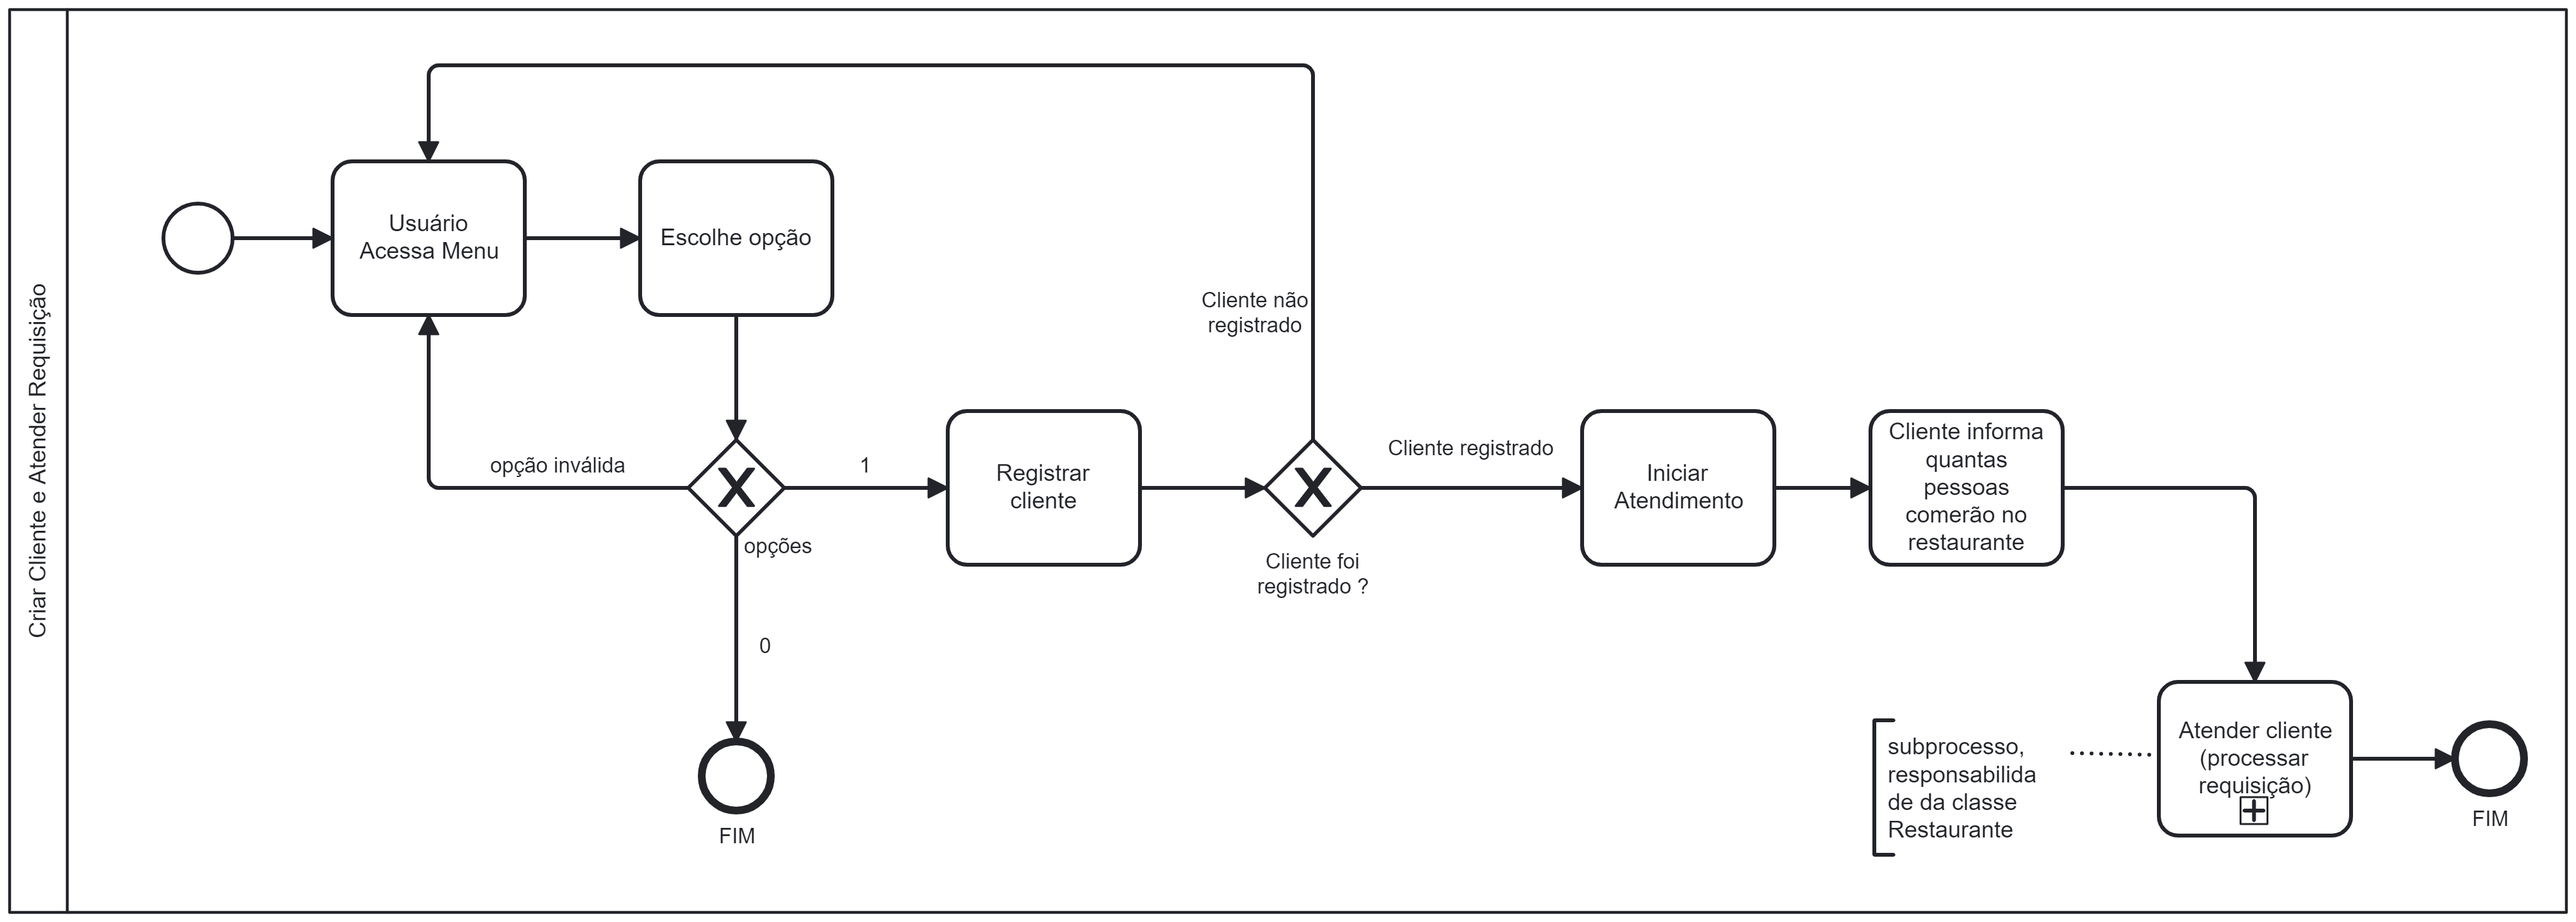
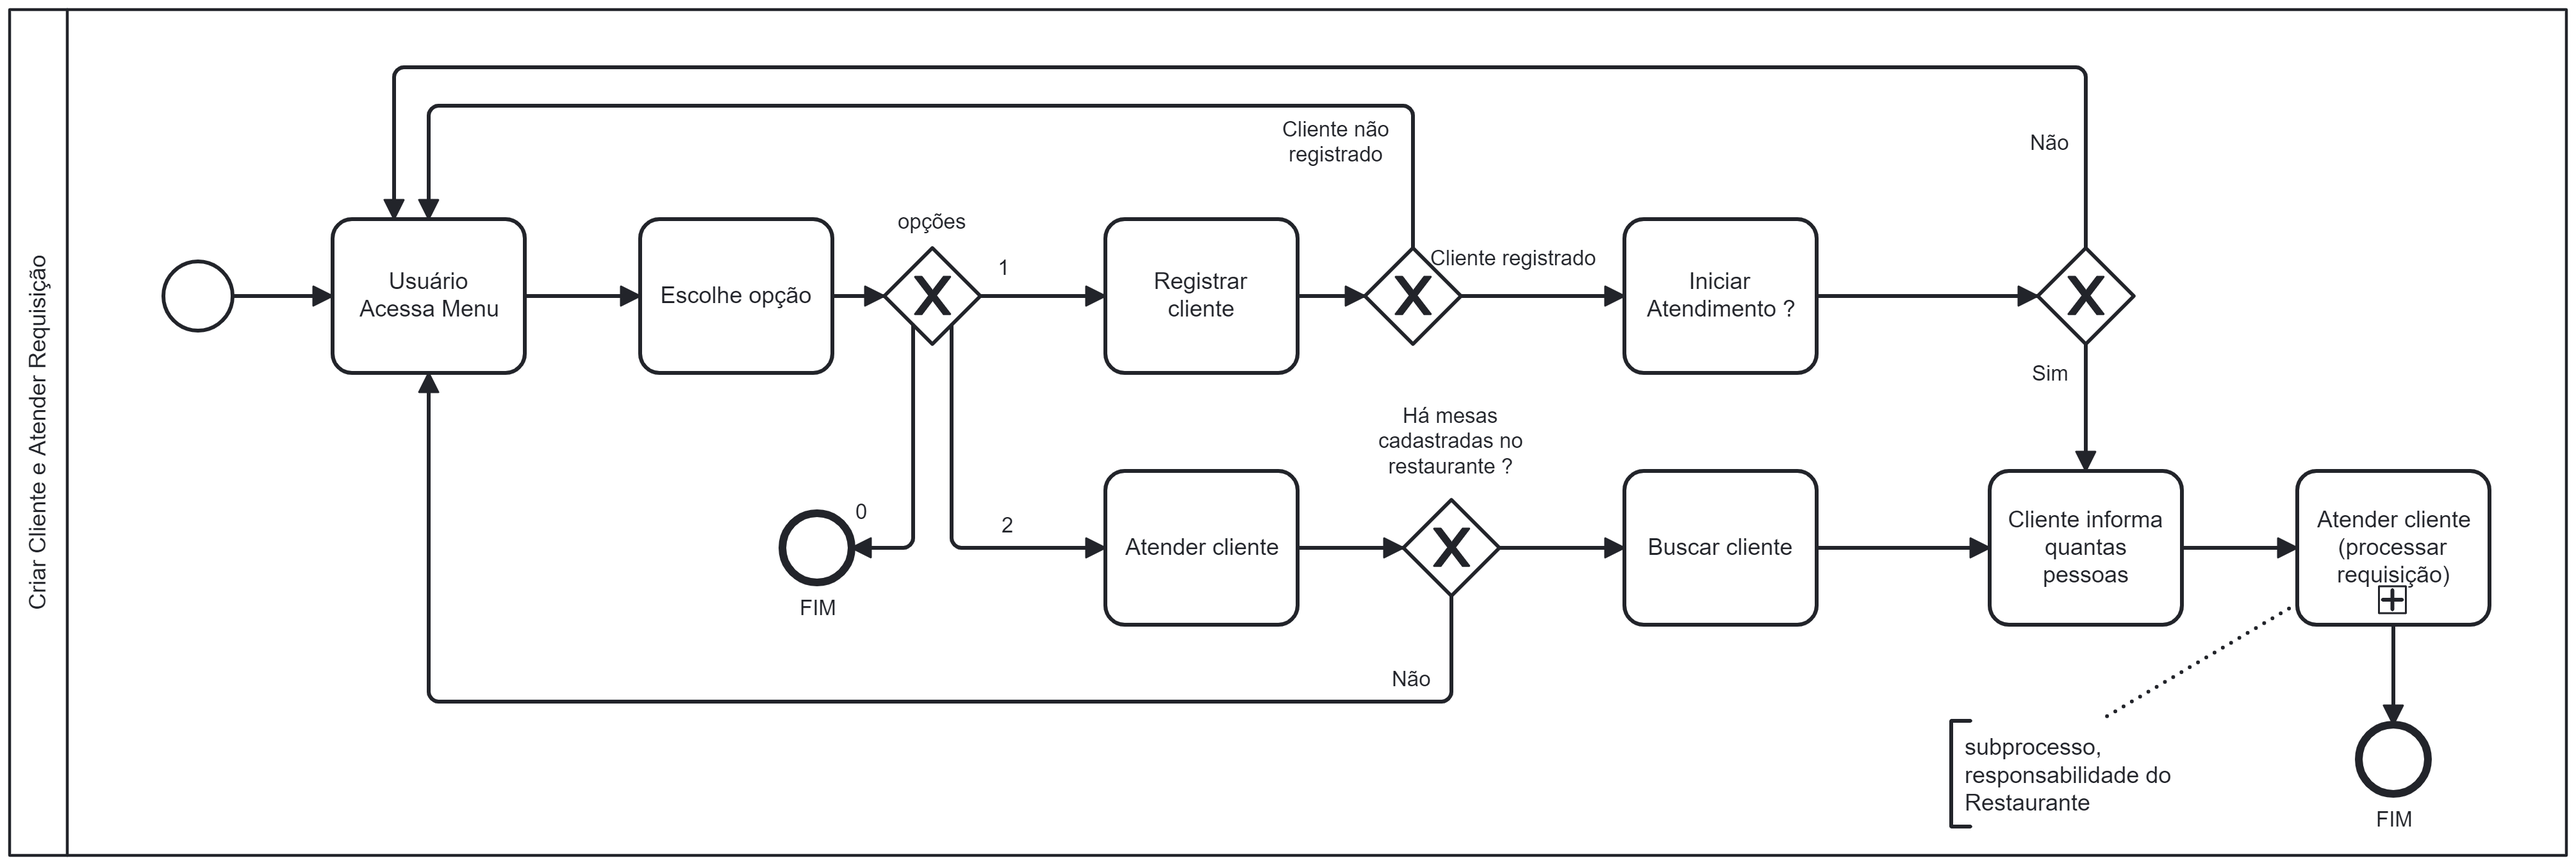
feat: adiciona classe cliente e atualiza documentacao principal 1

diff --git a/codigo/RestauranteAtomo/Program.cs b/codigo/RestauranteAtomo/Program.cs
@@ -1,4 +1,5 @@
 using RestauranteAtomo.model;
+using System.ComponentModel;
 using System.Text;
 using System.Text.RegularExpressions;
 
@@ -6,15 +7,16 @@ namespace RestauranteAtomo
 {
     internal class Program
     {
-        #region atributo estático - restaurante
+        #region atributo estático
         static Restaurante restaurante = new Restaurante(1);
+        static List<Cliente> clientes = new List<Cliente>();
         #endregion
 
         #region metodos auxiliares e de execucao dos processos
         /// <summary>
         /// Retorna as opcoes de menu do sistema.
         /// </summary>
-        public static String menu()
+        public static string menu()
         {
             StringBuilder sb = new StringBuilder();
             sb.AppendLine("\nMenu");
@@ -113,7 +115,7 @@ namespace RestauranteAtomo
         {
            Console.WriteLine("Informe o nome do cliente: ");
            string nome = Console.ReadLine();
-           return restaurante.encontrarCliente(nome);
+           return clientes.Find(cliente => cliente.Nome.ToLower() == nome.ToLower());
         }
 
         /// <summary>
@@ -197,10 +199,10 @@ namespace RestauranteAtomo
                         Cliente novoCliente = registrarCliente(out erros);
                         if(novoCliente != null)
                         {
-                            restaurante.adicionarCliente(novoCliente);
+                            clientes.Add(novoCliente);
                             Console.WriteLine(novoCliente);
 
-                            if(restaurante.Mesas.Count > 0 && deveIniciarAtendimento())
+                            if(deveIniciarAtendimento())
                                 iniciarAtendimento(novoCliente);
                         }else{ 
                             Console.WriteLine("Cliente não registrado. Informações não preenchidas corretamente:");
@@ -230,7 +232,7 @@ namespace RestauranteAtomo
                         }
                         break;
                     case 4:
-                        iniciarBuscaCliente cliente = iniciarBuscaCliente();
+                        Cliente cliente = iniciarBuscaCliente();
                         if (cliente != null) finalizarRequisicao(cliente.Requisicao);
                         else Console.WriteLine("Cliente não encontrado. Favor tentar novamente! \n");
                         break;

diff --git a/codigo/RestauranteAtomo/model/Cliente.cs b/codigo/RestauranteAtomo/model/Cliente.cs
@@ -1,0 +1,53 @@
+namespace RestauranteAtomo.model
+{
+  internal class Cliente
+  {
+    #region atributos
+    private string nome;
+    private string contato;
+    private Requisicao requisicao;
+
+    public Cliente(string nome, string contato)
+    {
+      this.nome = nome;
+      this.contato = contato;
+    }
+    #endregion
+
+    #region propriedades
+    public string Nome
+    {
+      get { return nome; }
+      set { nome = value; }
+    }
+
+    public string Contato
+    {
+      get { return contato;}
+      set { contato = value; }
+    }
+
+    public Requisicao Requisicao
+    {
+      get { return requisicao;}
+    }
+    #endregion
+
+    #region metodos
+    
+    /// <summary>
+    /// cria uma nova requisicao com a quantidade de pessoas
+    /// especificada
+    /// </summary>
+    /// <param name="quantidadePessoas"></param>
+    public void fazerRequisicao(int quantidadePessoas)
+    {
+      requisicao = new Requisicao(quantidadePessoas);
+    }    
+    
+    public override string ToString(){
+      return "Nome: " + this.nome + "; Contato: " + this.contato + "; " + (requisicao != null ? requisicao.ToString() : "Sem reserva pendente");
+    }
+    #endregion
+  }
+}
